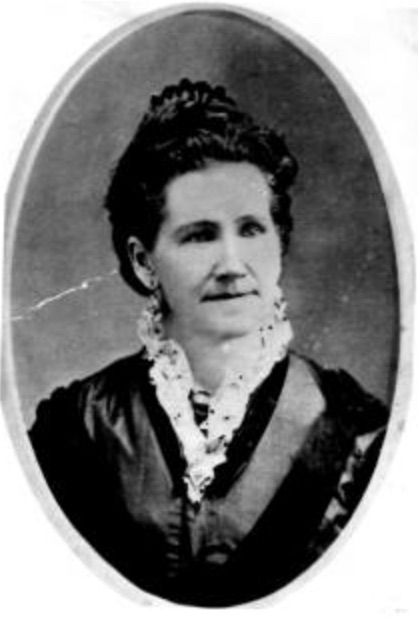
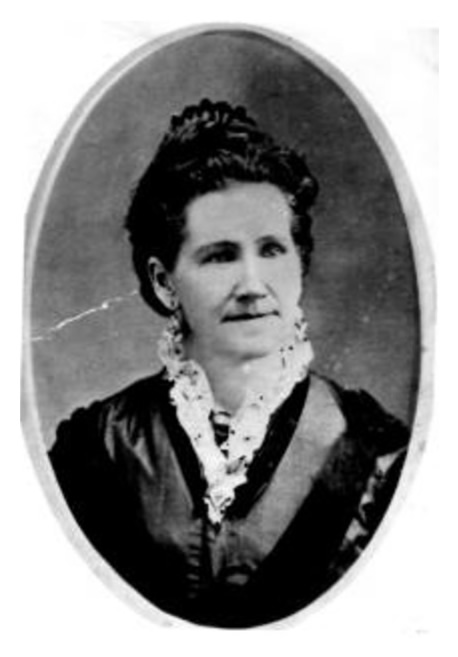
remove LibraryPage, split quote menu into columns, add headlines

diff --git a/app/containers/HomePage/sections/SplashSection/Headlines.js b/app/containers/HomePage/sections/SplashSection/Headlines.js
@@ -1,0 +1,85 @@
+/* eslint-disable jsx-a11y/no-static-element-interactions, react/no-danger */
+import React from 'react';
+import _ from 'lodash';
+import styled from 'styled-components';
+import Feed from 'components/Feed';
+import { Link } from 'react-router';
+
+const Wrapper = styled.div`
+  padding: 1rem 2rem;
+`;
+
+const NewsList = styled.div`
+  display: flex;
+  flex-direction: row;
+  flex-wrap: wrap;
+  flex: 1;
+`;
+const NewsItem = styled.div`
+  display: flex;
+  flex: 0 0 calc((768px - 4rem) / 3);
+  margin: 0;
+  padding: 8px 8px 8px 0;
+  box-sizing: border-box;
+  h3 {
+    margin: 0;
+    padding: 0;
+    text-align: left;
+    font-size: 1.1rem;
+  }
+  h3, a {
+    color: white;
+  }
+`;
+
+const Thumbnail = styled.img`
+  box-shadow: 0 1px 4px rgba(0,0,0,.6);
+  flex: 0 0 62px;
+  width: 62px;
+  height: 62px;
+  float: left;
+  margin: 0 11px 0 0;
+`;
+
+class Headlines extends React.PureComponent {
+  state = {
+    limit: 3,
+  };
+
+  onMorePress = () => {
+    this.setState({ limit: this.state.limit + 3 });
+  };
+
+  render() {
+    return (
+      <Wrapper>
+        <Feed
+          url="http://news.transfigurism.org/feeds/posts/default?redirect=false"
+          select="id, published, title, thumbnail"
+          renderer={(result) => {
+            const entries = _.get(result, 'query.results.entry', []);
+            return (
+              <NewsList>
+                { _.map(entries, (entry) => {
+                  const match = /post-(.*)$/.exec(entry.id);
+                  const shortId = match[1];
+                  return (
+                    <NewsItem id={entry.id} key={entry.id}>
+                      { !!entry.thumbnail && <Thumbnail src={entry.thumbnail.url} /> }
+                      <Link to={`/news/${shortId}`}><h3>{entry.title.content}</h3></Link>
+                    </NewsItem>
+                  );
+                })}
+              </NewsList>
+            );
+          }}
+          limit={this.state.limit}
+        />
+      </Wrapper>
+    );
+  }
+}
+Headlines.propTypes = {
+};
+
+export default Headlines;

diff --git a/app/containers/HomePage/sections/SplashSection/index.js b/app/containers/HomePage/sections/SplashSection/index.js
@@ -2,9 +2,11 @@ import React from 'react';
 import styled from 'styled-components';
 import Section from 'components/Section';
 import Img from 'components/Img';
+import SectionContent from 'components/SectionContent';
 import ForestImage from './forest.jpg';
 import SocialNavBar from './SocialNavBar';
 import Logo from './mta-logo.png';
+import Headlines from './Headlines';
 
 const LogoImg = styled(Img)`
   width: 206px;
@@ -33,7 +35,7 @@ const ContributeLink = styled.a`
 const TopAlignedSection = styled(Section)`
   //min-height: 100vh;
   background-position-y: top;
-  padding-bottom: 3rem;
+  padding-bottom: 0;
   background-attachment: fixed;
   display: flex;
   flex-direction: column;
@@ -41,6 +43,11 @@ const TopAlignedSection = styled(Section)`
 
 const Spacer = styled.div`
   flex: 1,
+`;
+
+const HeadlinesSection = styled.div`
+  margin-top: 3em;
+  background: rgba(0,0,0,.35);
 `;
 
 const SplashSection = () => (
@@ -52,6 +59,11 @@ const SplashSection = () => (
       <ContributeLink href="/join#donation">Contribute</ContributeLink>
     </div>
     <Spacer />
+    <HeadlinesSection>
+      <SectionContent>
+        <Headlines />
+      </SectionContent>
+    </HeadlinesSection>
   </TopAlignedSection>
 );
 

diff --git a/app/routes.js b/app/routes.js
@@ -108,37 +108,6 @@ export default function createRoutes() {
         },
       ],
     }, {
-      path: '/library',
-      name: 'library',
-      getComponent(nextState, cb) {
-        import('containers/LibraryPage').then(loadModule(cb)).catch(errorLoading);
-      },
-      indexRoute: {
-        getComponent(partialNextState, cb) {
-          import('containers/LibraryPage/pages/index.md').then(loadModule(cb)).catch(errorLoading);
-        },
-      },
-      childRoutes: [
-        {
-          path: 'curriculum',
-          getComponent(nextState, cb) {
-            import('containers/LibraryPage/pages/Curriculum.md').then(loadModule(cb)).catch(errorLoading);
-          },
-        },
-        {
-          path: 'quotes',
-          getComponent(nextState, cb) {
-            import('containers/LibraryPage/pages/Quotes').then(loadModule(cb)).catch(errorLoading);
-          },
-        },
-        {
-          path: 'videos',
-          getComponent(nextState, cb) {
-            import('containers/LibraryPage/pages/Videos.md').then(loadModule(cb)).catch(errorLoading);
-          },
-        },
-      ],
-    }, {
       path: '/curriculum',
       name: 'curriculum',
       getComponent(nextState, cb) {

diff --git a/app/containers/QuotesPage/QuotesWrapper.js b/app/containers/QuotesPage/QuotesWrapper.js
@@ -3,16 +3,20 @@ import styled from 'styled-components';
 import QuotesMarkdown from './Quotes.md';
 
 const Wrapper = styled.article`
-  h1 + ul {
-    list-style-type: none;
-    padding: 0 0 0 2em;
-    text-indent: -1em;
+  ul {
+    display: inline-block;
+    vertical-align: top;
+    width: calc(400px / 2)
+  }
+  ul + div + h3 {
+    margin-top: 2rem;
   }
   h3 + p > img {
     width: 150px !important;
     height: auto;
     float: right;
     margin-left: 16px;
+    box-shadow: 0 1px 4px rgba(0,0,0,.6);
   }
   h2 > img {
     width: 100%;
@@ -20,6 +24,7 @@ const Wrapper = styled.article`
     height: auto;
     float: none;
     margin: 0 0 1.5em 0;
+    box-shadow: 0 1px 4px rgba(0,0,0,.6);
   }
   h2 {
     margin-bottom: 0;

diff --git a/app/containers/HomePage/sections/TheosisSection/ConferenceVideoNav.js b/app/containers/HomePage/sections/TheosisSection/ConferenceVideoNav.js
@@ -15,7 +15,7 @@ const VideoWrapper = styled.div`
   display: inline-block;
   overflow: hidden;
   box-sizing: border-box;
-  border: 1px solid rgba(0,0,0,.1);
+  //border: 1px solid rgba(0,0,0,.1);
   position: relative;
   &:first-child {
     margin-left: 2em;
@@ -23,6 +23,7 @@ const VideoWrapper = styled.div`
   &:last-child {
     margin-right: 2em;
   }
+  box-shadow: 0 1px 4px rgba(0,0,0,.6);
 `;
 
 /*

diff --git a/app/containers/HomePage/sections/TheosisSection/index.js b/app/containers/HomePage/sections/TheosisSection/index.js
@@ -25,6 +25,7 @@ const NewGodLinkImage = styled.img`
   height: auto;
   margin: 2em 0 6em 0;
   transition: .2s all;
+  box-shadow: 0 1px 4px rgba(0,0,0,.6);
 
   &:hover {
     -webkit-filter: brightness(75%);

diff --git a/app/containers/CurriculumPage/index.js b/app/containers/CurriculumPage/index.js
@@ -49,6 +49,7 @@ import ToC from './toc';
 const GlossaryProvidingMarkdown = styled.div`
   img {
     width: 100%; 
+    box-shadow: 0 1px 4px rgba(0,0,0,.6);
   }
   strong {
     position: relative;

diff --git a/app/containers/HomePage/sections/MandateSection/index.js b/app/containers/HomePage/sections/MandateSection/index.js
@@ -33,6 +33,7 @@ const VideoWrapper = styled.div`
   width: 100%;
   height: auto;
   margin: 1rem 0;  
+  box-shadow: 0 1px 4px rgba(0,0,0,.6);
 `;
 
 const FixedBackgroundSection = styled(Section)`

diff --git a/app/containers/NewsPage/List.js b/app/containers/NewsPage/List.js
@@ -16,6 +16,7 @@ const Thumbnail = styled.img`
   margin-top: 3px;
   margin-right: 12px;
   margin-bottom: 0;
+  box-shadow: 0 1px 4px rgba(0,0,0,.6);
 `;
 
 const PublishedDate = styled.div`

diff --git a/app/containers/NewsPage/Detail.js b/app/containers/NewsPage/Detail.js
@@ -21,6 +21,7 @@ const Article = styled.article`
   img {
     width: 100%;
     height: auto;
+    box-shadow: 0 1px 4px rgba(0,0,0,.6);
   }
 `;
 

diff --git a/app/containers/QuotesPage/Quotes.md b/app/containers/QuotesPage/Quotes.md
@@ -17,6 +17,8 @@
 - [Heber C Kimball](#heber-c-kimball)
 - [Wilford Woodruff](#wilford-woodruff)
 - [Lorenzo Snow](#lorenzo-snow)
+
+
 - [Orson F. Whitney](#orson-f-whitney)
 - [Joseph F. Smith](#joseph-f-smith)
 - [James Talmage](#james-talmage)
@@ -32,6 +34,7 @@
 - [Jeffrey R. Holland](#jeffrey-r-holland)
 - [Dallin H. Oaks](#dallin-h-oaks)
 - [Dieter F. Uchtdorf](#dieter-f-uchtdorf)
+
 
 
 ..ref joseph-smith
@@ -54,7 +57,7 @@
 
 ..ref elicia-a-grist
 ### Elicia A. Grist
-![Elicia A. Grist](assets/quotes/women/EliciaAGrist.png)
+![Elicia A. Grist](assets/quotes/women/EliciaAGrist.jpg)
 "When we take into consideration the many opportunities and various ways of usefulness, and the amount of good that may be accomplished by us who are engaged in so great a cause, some of you may feel that it is not our prerogative to interfere in the least, or to take one step towards building up the kingdom of God. But I feel that it is a mistaken idea to suppose that we cannot perform acts that would ennoble are character and position, when we are so nearly allied to the brother and of the priesthood, and they required to use strenuous efforts to advance the cause of God."
 #### Millennial Star, May 4, 1861
 
